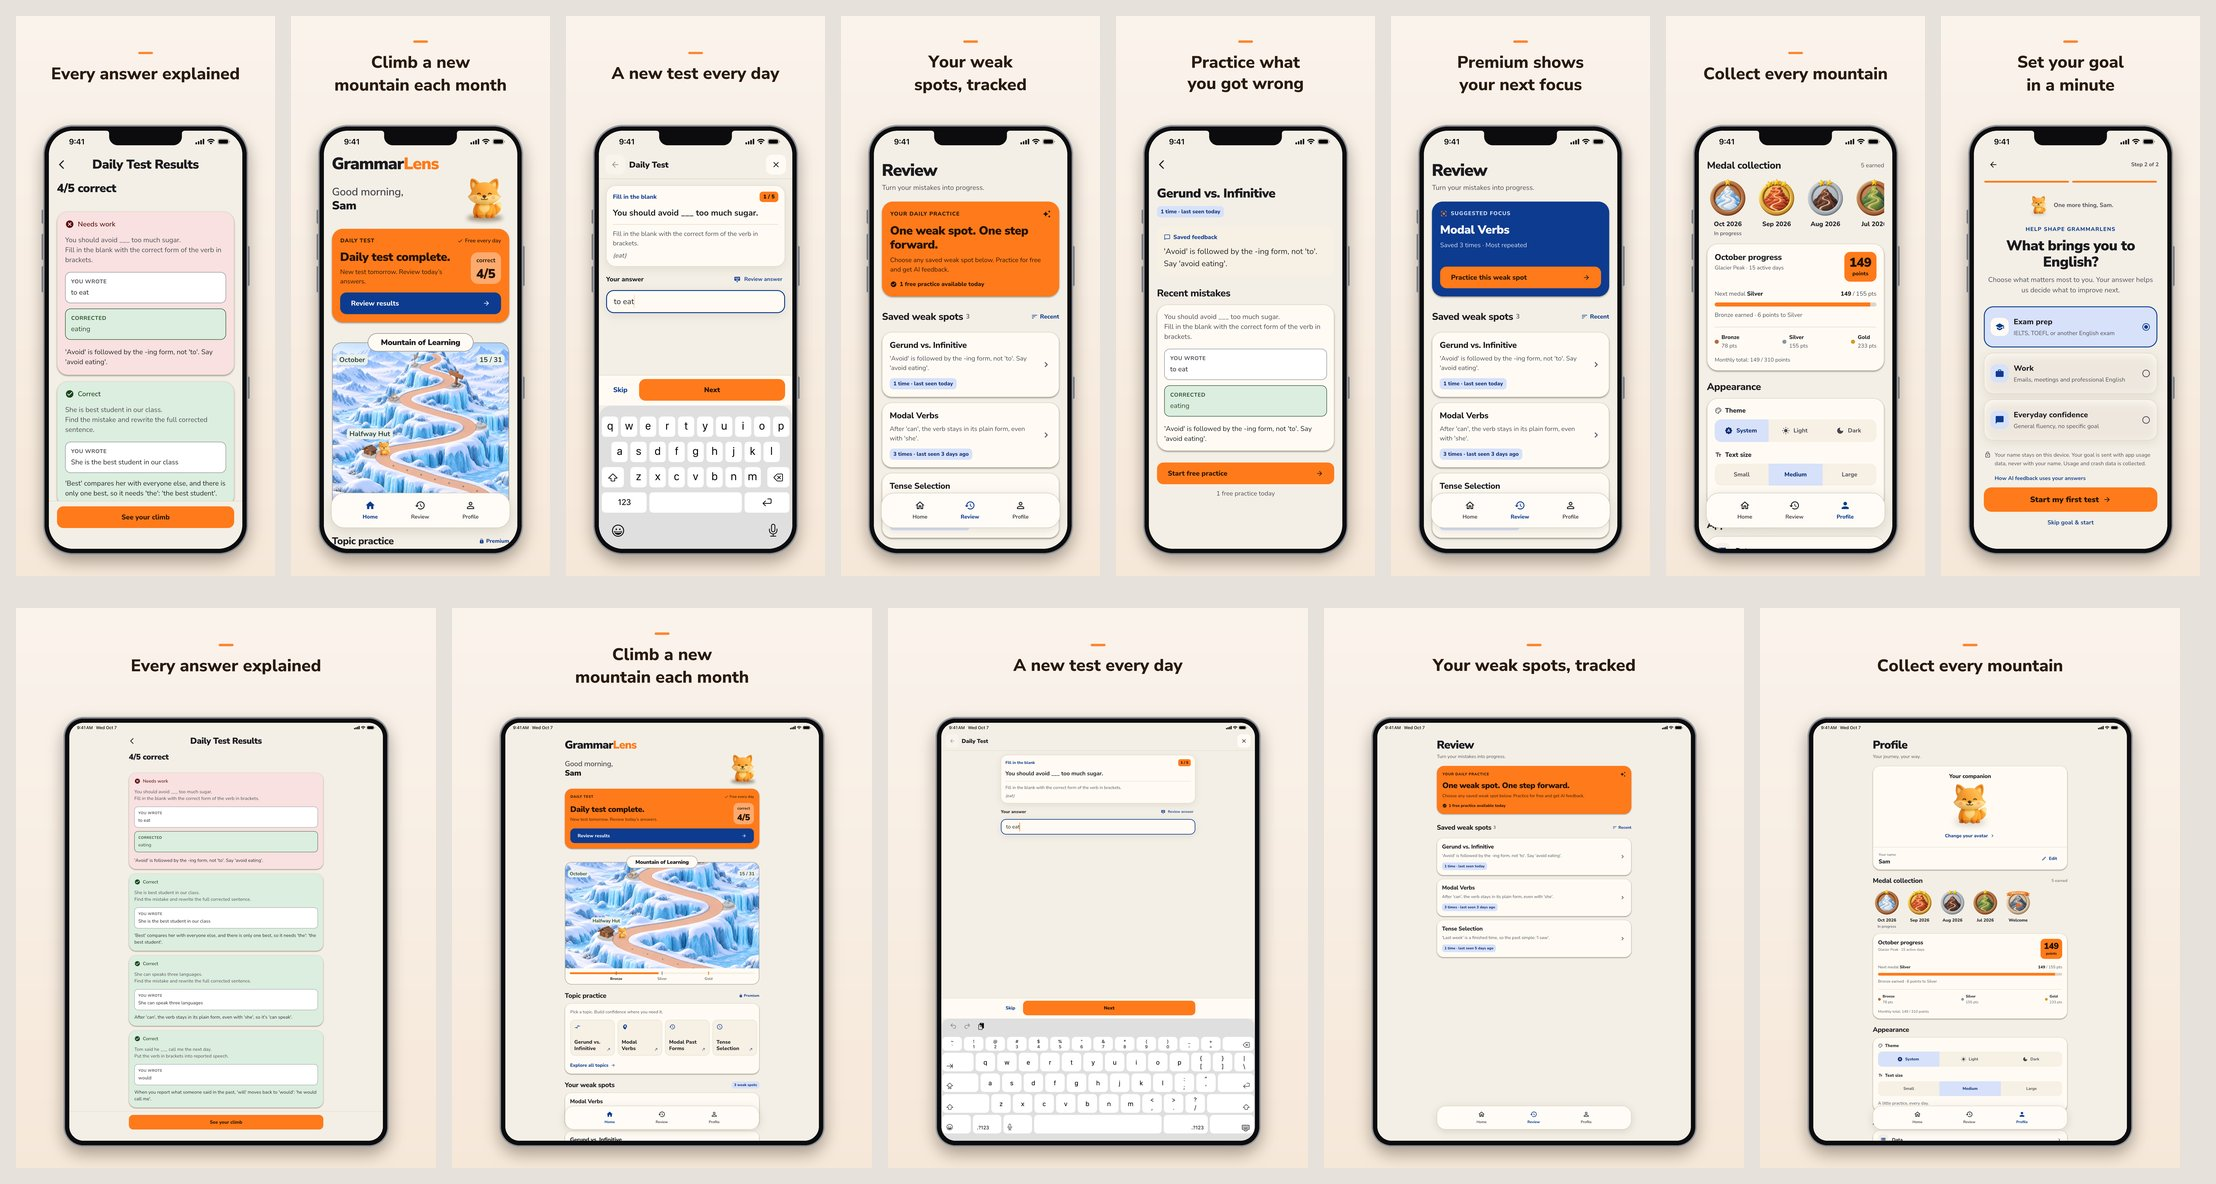
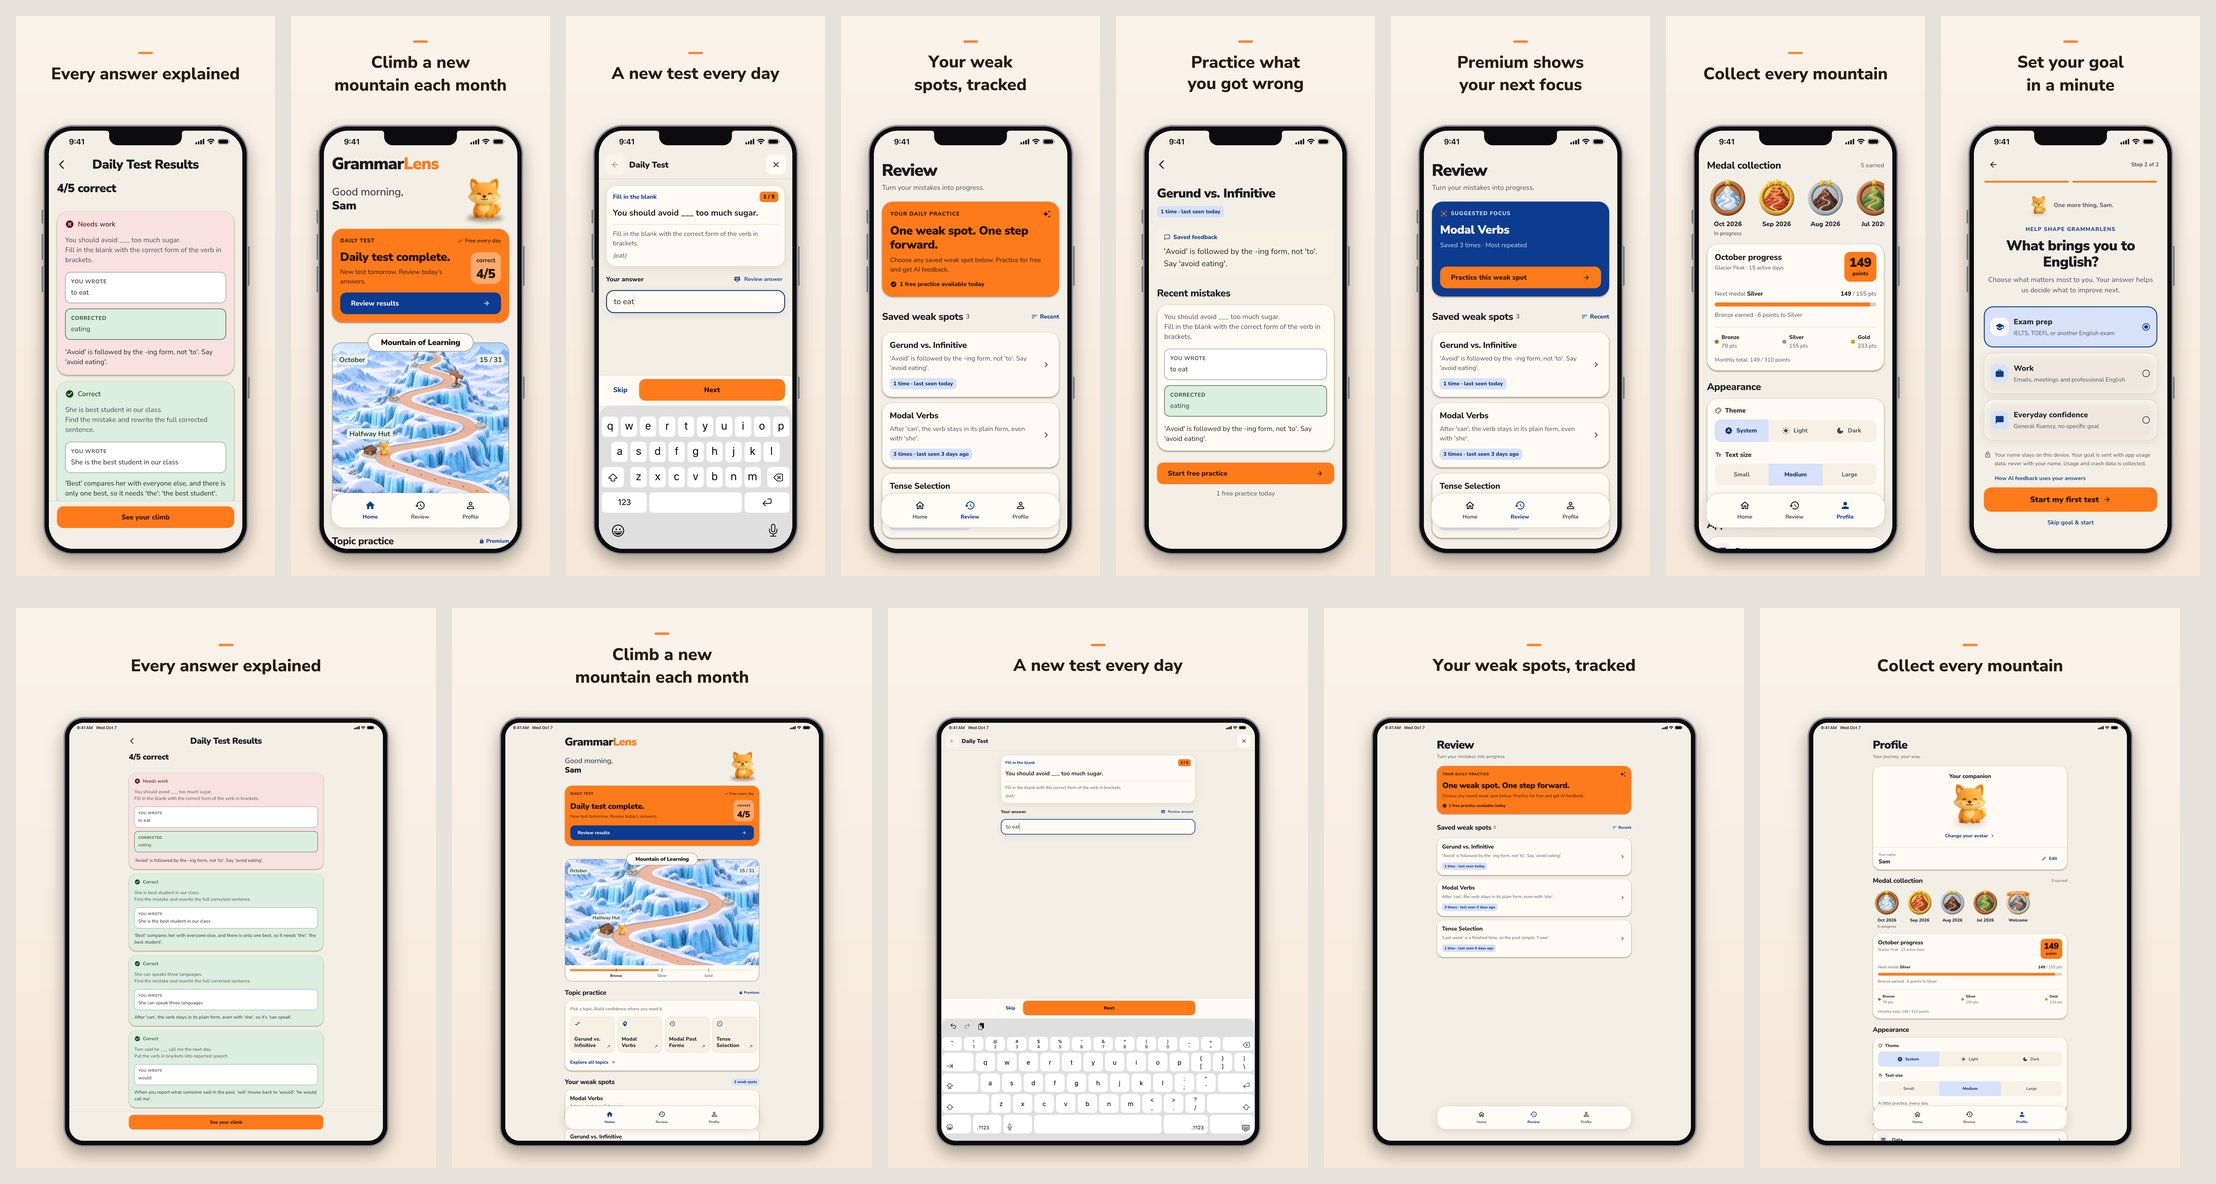
screenshots: 1.2.0 iPad 02 retaken, README and case-study images, App Store Connect slot table

Changed region(s): [[0.2491, 0.625, 0.3425, 0.8438], [0.2491, 0.875, 0.3425, 0.9688]]

diff --git a/screenshots/1.2.0/README.md b/screenshots/1.2.0/README.md
@@ -1,0 +1,88 @@
+# 1.2.0 visual assets
+
+Made from the real app in the simulator with a made-up learner ("Sam",
+the Fox, Glacier Peak), framed in the 1.0.0 / 1.1.0 style. No personal
+data, status bar 9:41 with full signal and battery, every PNG RGB (no
+alpha). How they are made: build log 2026-10-06 and 2026-10-07.
+
+```bash
+tool/screenshots/capture.sh
+```
+
+```bash
+build/scene_art_venv/bin/python tool/screenshots/frame.py
+```
+
+```bash
+build/scene_art_venv/bin/python tool/screenshots/assets.py
+```
+
+`capture.sh` takes about 45 minutes (`RUNS=free capture.sh iphone` for one
+run); `frame.py` writes `store/`, `subscription-review/` and
+`overview.jpg`; `assets.py` writes `readme/` and `case-study/` (it reads
+the site repository's current case-study images for the 1.0.0 side of the
+comparisons, read only).
+
+## App Store Connect slots
+
+Version 1.2.0, English (U.S.). Upload in this order (the first three
+appear in search).
+
+### iPhone 6.5" Display (1284 × 2778)
+
+| Order | File | Caption on the image |
+|---|---|---|
+| 1 | `store/iphone/01-result.png` | Every answer explained |
+| 2 | `store/iphone/02-home.png` | Climb a new mountain each month |
+| 3 | `store/iphone/03-question.png` | A new test every day |
+| 4 | `store/iphone/04-review.png` | Your weak spots, tracked |
+| 5 | `store/iphone/05-weak-spot.png` | Practice what you got wrong |
+| 6 | `store/iphone/06-review-premium-ON-HOLD.png` | Premium shows your next focus — **on hold**: only after Suggested Focus is checked on a device and the owner approves (then renamed `06-review-premium.png`) |
+| 7 | `store/iphone/07-collection.png` | Collect every mountain |
+| 8 | `store/iphone/08-goal.png` | Set your goal in a minute |
+
+If an iPhone 6.9" set is already in App Store Connect, clear it (or
+replace it): with no 6.9" set, App Store Connect scales the 6.5" set for
+the larger iPhones; with an old one, they keep showing it.
+
+### iPad 13" Display (2064 × 2752)
+
+| Order | File | Caption on the image |
+|---|---|---|
+| 1 | `store/ipad/01-result.png` | Every answer explained |
+| 2 | `store/ipad/02-home.png` | Climb a new mountain each month |
+| 3 | `store/ipad/03-question.png` | A new test every day |
+| 4 | `store/ipad/04-review.png` | Your weak spots, tracked |
+| 5 | `store/ipad/05-collection.png` | Collect every mountain |
+
+### Subscriptions, App Review screenshot (review only, not shown on the App Store)
+
+| Subscription | Product ID | File |
+|---|---|---|
+| Annual, $49.99, 1-week free trial | `grammarlens_premium_annual` | `subscription-review/annual.png` (annual selected, "Start my 7-day free trial") |
+| Monthly, $5.99, 3-day free trial | `grammarlens_premium_monthly` | `subscription-review/monthly.png` (monthly selected, "Start my 3-day free trial") |
+
+1284 × 2778 (an accepted iPhone size), unframed. Taken with the debug
+price fixture (the real prices and trial lengths, eligible). Before
+uploading, compare with the open sandbox check on the device; if they
+differ, the device wins.
+
+## Other folders
+
+- `readme/`: the GitHub README's hero (1800 × 1100) and four frames
+  (600 × 1298).
+- `case-study/`: for ahmettayfur.com, not copied there (the owner's step).
+  - Same names and size as the site's current images (600 × 1298 webp,
+    raw app screens): `daily-test-explanation`, `day0-1-test`,
+    `day0-2-result` (now the Welcome celebration over the result),
+    `day0-3-climb`, `day0-4-paywall`, `practice-offer-card` (now Review's
+    "See Premium" once the free practice is used).
+  - New: `onboarding-goal`, `home-glacier` (Home with the Halfway Hut
+    label), `weak-spot-premium` ("Practice this").
+  - Comparisons (1260 × 1398 webp, labelled): `compare-home-free-premium`,
+    `compare-review-free-premium`, `compare-home-1.0.0-1.2.0`,
+    `compare-paywall-1.0.0-1.2.0`. The 1.0.0 side is the site's own
+    image; the owner's name on its Home is blurred.
+  - `og-candidate.png` (1672 × 941, the size of the site's
+    `grammarlens-og.png`): its subline is new copy, to be approved.
+- `overview.jpg`: every store frame, reduced.
